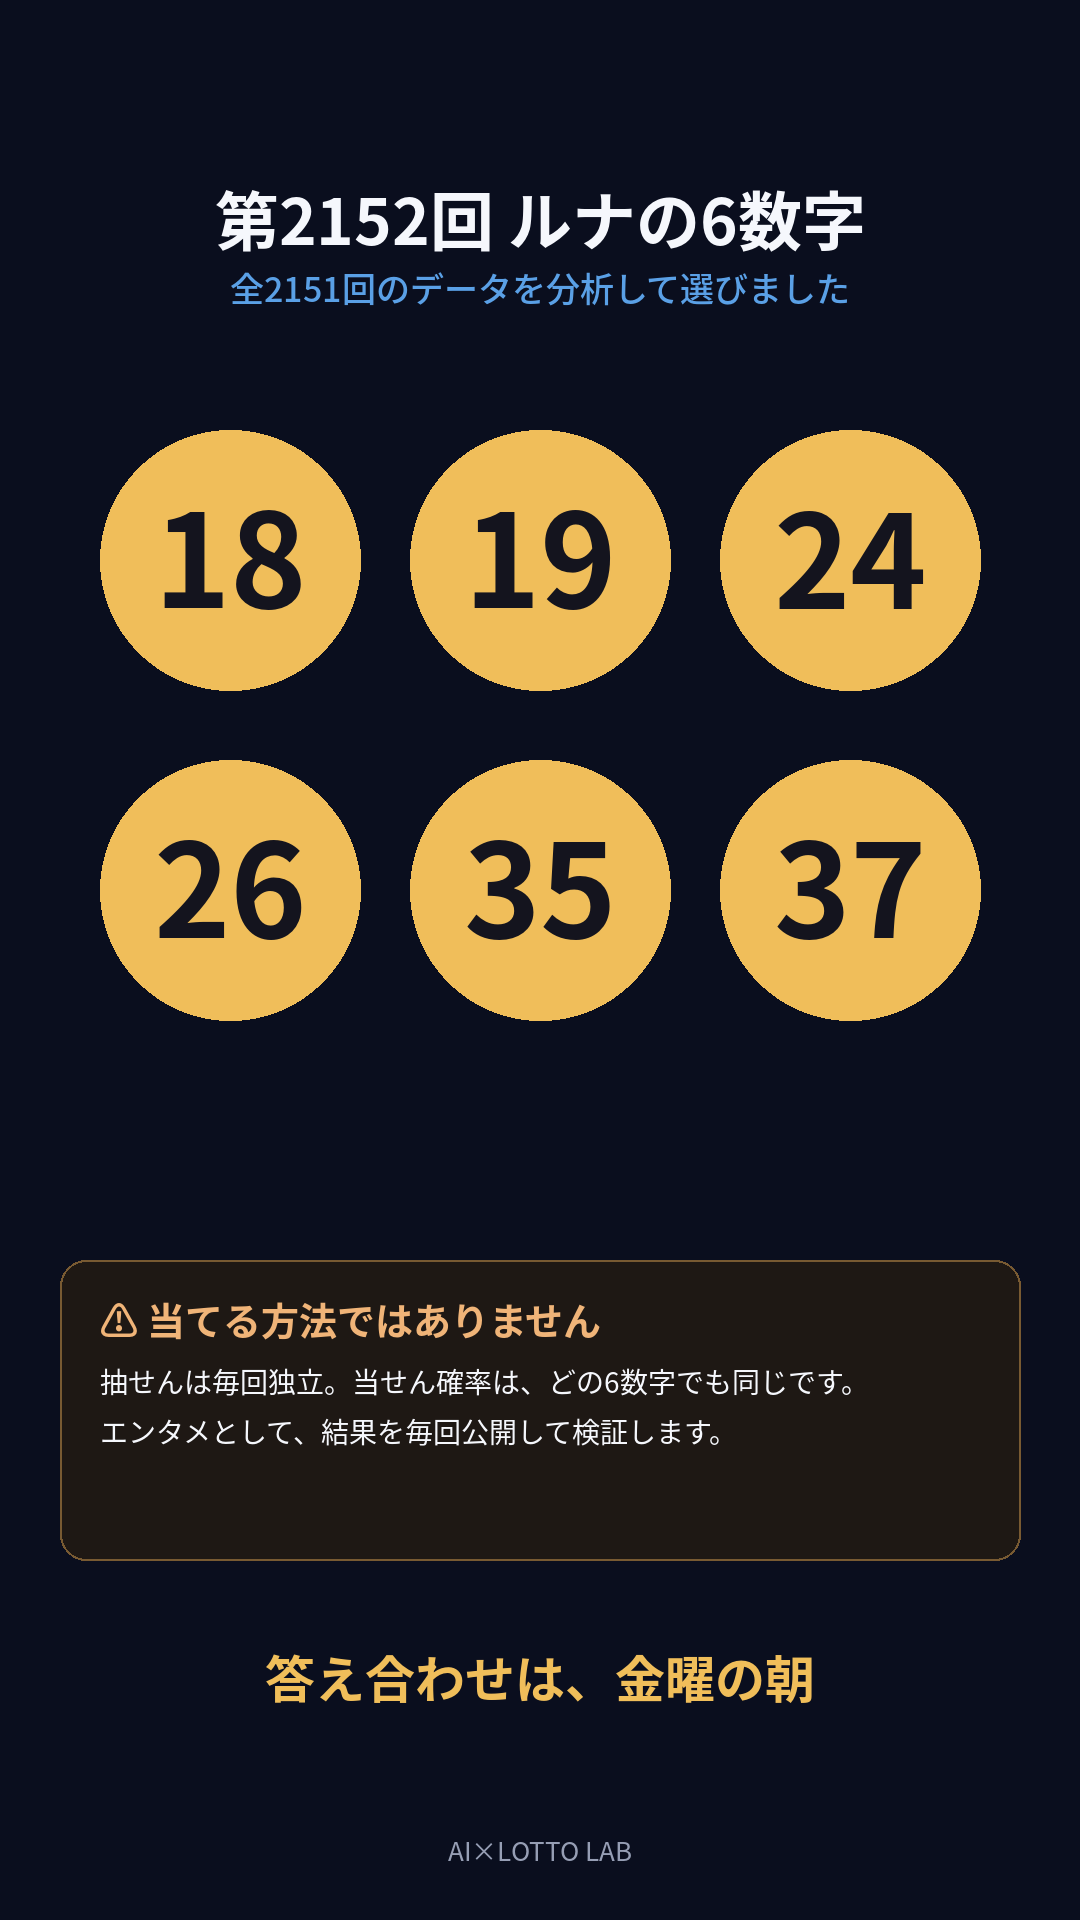
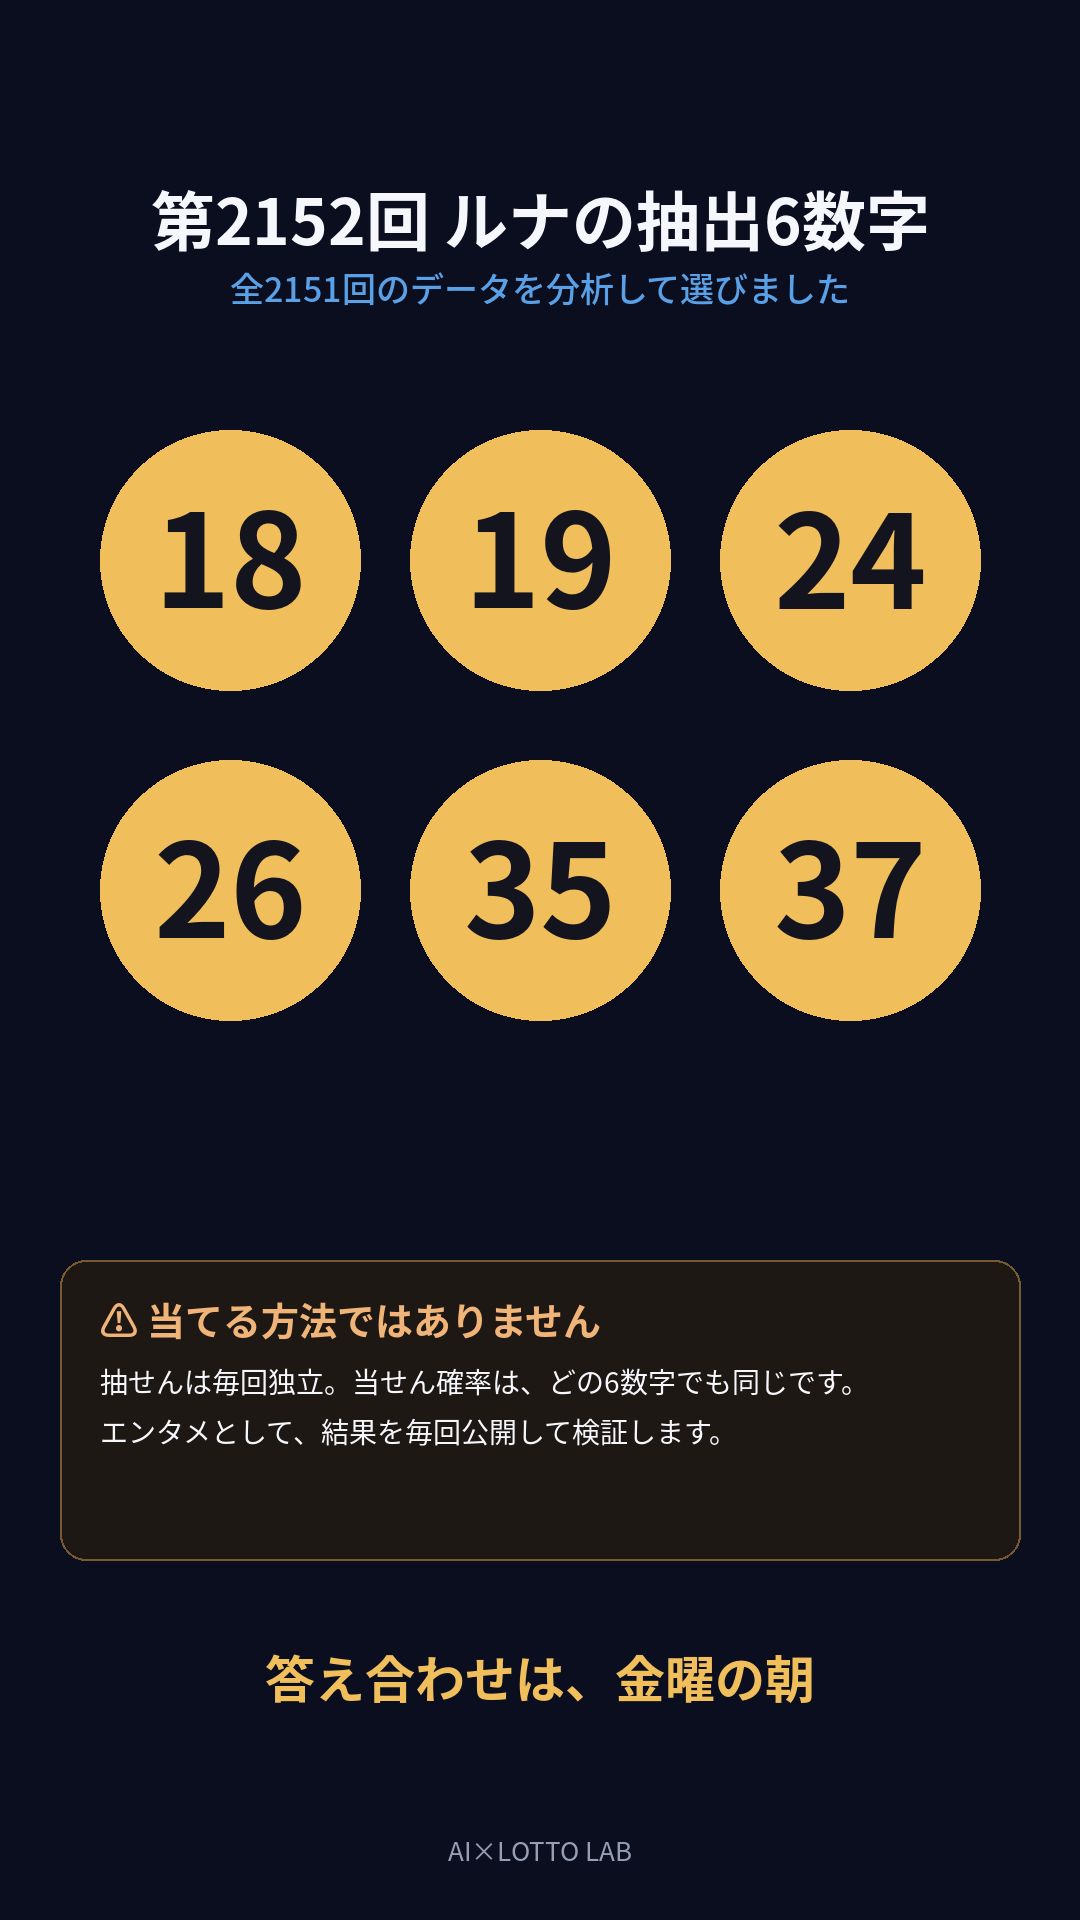
v2 video cards, script draft 2152, wording: 抽出

Changed region(s): [[0.1222, 0.0938, 0.8556, 0.1562]]

diff --git a/scripts/make_v2_cards.py b/scripts/make_v2_cards.py
@@ -1,0 +1,42 @@
+"""v2 動画用カード: 冒頭(2秒フック)、視点カード3枚、6数字の1個ずつ公開カード6枚。使い方: python3 scripts/make_v2_cards.py <次回の回号>"""
+import sys, json
+from PIL import Image, ImageDraw, ImageFont
+N = int(sys.argv[1]); p = json.load(open(f"data/picks/{N}.json")); v = json.load(open(f"data/picks_v2_{N}.json"))
+W, H = 1080, 1920; FD = "/usr/share/fonts/opentype/noto/NotoSansCJK-{}.ttc"; F = lambda w, s: ImageFont.truetype(FD.format(w), s)
+BG=(10,14,30); GOLD=(240,190,90); WHITE=(245,247,252); GR=(150,158,180); BLUE=(90,160,230); CB=(26,32,58); CBD=(60,70,110); DIM=(40,46,74)
+def new(): im=Image.new("RGB",(W,H),BG); return im, ImageDraw.Draw(im)
+def ct(d,y,t,fn,fill):
+    b=d.textbbox((0,0),t,font=fn); d.text((W/2-(b[2]-b[0])/2,y),t,font=fn,fill=fill)
+def foot(d): ct(d,1830,"AI×LOTTO LAB",F("Regular",26),GR)
+# 冒頭フック: 最初のフレームから数字が見える(音なしでも読める)
+rows=[l for l in __import__("openpyxl").load_workbook("data/loto6_all.xlsx",read_only=True).active.iter_rows(min_row=2,values_only=True) if l[0]]
+n=len(rows); hit=sum(1 for x in rows if x[9]>0); pct=round(hit/n*100)
+im,d=new(); ct(d,330,"ロト6",F("Bold",90),WHITE); ct(d,470,"%d%%"%pct,F("Bold",420),GOLD)
+ct(d,980,"の回で 1等が出てる",F("Bold",78),WHITE); ct(d,1110,"第1回〜第%d回(%s回中%s回)"%(n,format(n,","),format(hit,",")),F("Medium",38),BLUE); foot(d)
+im.save(f"cards/v2_open_{N}.png")
+# 視点カード
+def card(name,title,sub,items,note):
+    im,d=new(); ct(d,230,title,F("Bold",72),GOLD); ct(d,350,sub,F("Medium",42),WHITE)
+    y=520
+    for lab,val in items:
+        d.rounded_rectangle([70,y,W-70,y+210],radius=26,fill=CB,outline=CBD,width=3)
+        d.text((110,y+28),lab,font=F("Medium",36),fill=GR); d.text((110,y+95),val,font=F("Bold",70),fill=WHITE); y+=250
+    ct(d,y+60,note,F("Regular",30),GR); foot(d); im.save(f"cards/v2_{name}_{N}.png")
+sc=v["score"]
+card("view1","視点① よく出る数字","過去の全データから",[("全期間でよく出た数字","6 ・ 37 ・ 2 ・ 42"),("最近100回でよく出た数字","37 ・ 6 ・ 18 ・ 8")],"傾向です。当てる方法ではありません")
+card("view2","視点② 組み合わせの傾向","前の回の数字をもとに",[("一緒に出やすい数字","6 ・ 38 ・ 15 ・ 1"),("次の回に出やすい数字","37 ・ 38 ・ 10 ・ 20")],"傾向です。当てる方法ではありません")
+ps=sorted(v["pset"].items(),key=lambda x:-x[1])[:2]
+card("view3","視点③ 次の抽せん球","セット球の使われ方から",[("次に使われやすいセット","%s・%s"%(ps[0][0],ps[1][0])),("そのセットで出やすい数字","6 ・ 21 ・ 2 ・ 26")],"傾向です。当てる方法ではありません")
+# 6数字を1個ずつ
+nums=p["luna"]
+for k in range(1,7):
+    im,d=new(); ct(d,170,"第%d回 ルナの抽出6数字"%N,F("Bold",60),WHITE); ct(d,262,"%d個目"%k,F("Medium",40),BLUE)
+    for i,x in enumerate(nums):
+        r,c=divmod(i,3); cx=230+c*310; cy=560+r*330
+        on=i<k; fill=GOLD if on else DIM
+        d.ellipse([cx-130,cy-130,cx+130,cy+130],fill=fill)
+        if on:
+            t=str(x); b=d.textbbox((0,0),t,font=F("Bold",110)); d.text((cx-(b[2]-b[0])/2,cy-(b[3]-b[1])/2-b[1]),t,font=F("Bold",110),fill=(20,20,30))
+    ct(d,1330,"AIが分析した視点から抽出",F("Medium",38),GR)
+    ct(d,1410,"当てる方法ではありません",F("Regular",30),GR); foot(d); im.save(f"cards/v2_num{k}_{N}.png")
+print("ok")

diff --git a/scripts/make_hook_cards.py b/scripts/make_hook_cards.py
@@ -25,7 +25,7 @@ ct(d, 1830, "AI×LOTTO LAB", F("Regular", 26), GR)
 im.save(f"cards/hook_{N}.png")
 # 6数字
 im, d = new()
-ct(d, 170, "第%d回 ルナの6数字" % N, F("Bold", 64), WHITE)
+ct(d, 170, "第%d回 ルナの抽出6数字" % N, F("Bold", 64), WHITE)
 ct(d, 262, "全%d回のデータを分析して選びました" % p["draws"], F("Medium", 34), BLUE)
 for i, v in enumerate(p["luna"]):
     r, c = divmod(i, 3); cx = 230+c*310; cy = 560+r*330

diff --git a/docs/script_2152.md b/docs/script_2152.md
@@ -1,0 +1,30 @@
+# 第2152回 動画台本(v2・案)  ※生成・予約はしていない
+ねらい: 約65〜70秒。冒頭2秒に数字(71%)、音なしでも読める画面+字幕、3〜5秒ごとに切り替え。
+言葉: 「予想」は使わず「抽出」。確率が上がるとは言わない。購入をすすめない。
+
+| # | 種別 | 画像/アバター | ナレーション | 目安秒 |
+|---|---|---|---|---|
+| 1 | image | v2_open_2152.png | ロト6、7割の回で、1等が出てる。 | 2 |
+| 2 | avatar(白ジャケット) | - | AIロト研究員のルナだよ。でもね、自分が1等を当てる確率は、610万分の1。それなのに、なんで7割の回で出るんだろう? | 9 |
+| 3 | avatar | - | 毎回、全国でたくさんのくじが買われてるから、だれかの6数字がぴったり合う回が多いんだ。 | 6 |
+| 4 | avatar | - | ルナは、当てる方法を教える人じゃないよ。過去の全データを、いくつかの視点で分析して、数字を抽出して、結果を毎回公開して、あとから検証するの。 | 12 |
+| 5 | image | v2_view1_2152.png | 視点その1。よく出る数字。全期間でも最近でも、6と37がよく出てるよ。 | 5 |
+| 6 | image | v2_view2_2152.png | 視点その2。一緒に出やすい数字と、前の回の次に出やすい数字。 | 4 |
+| 7 | image | v2_view3_2152.png | 視点その3。次に使われやすい抽せん球は、FかIのセット。 | 4 |
+| 8 | avatar | - | この視点を合わせて、確率で選んだ、第2152回のルナの抽出6数字は、こちら。 | 5 |
+| 9-14 | image×6 | v2_num1〜6_2152.png | 1つ目、18。 / 2つ目、19。 / 3つ目、24。 / 4つ目、26。 / 5つ目、35。 / 6つ目、37。 | 各2 |
+| 15 | image | numbers_2152.png | もう一回言うね。18、19、24、26、35、37。保存しておくと、答え合わせが楽だよ。 | 6 |
+| 16 | avatar | - | 当たる保証はないよ。確率はどの6数字でも同じで、抽せんは毎回独立。見て楽しむエンタメとして、見てね。あなたの6数字も、コメントで教えて。 | 10 |
+| 17 | avatar | - | 答え合わせは金曜の朝に出すよ。フォローして待っててね。ところで、ロト6、7割の回で、1等が出てるって、知ってた? | 8 |
+
+最後の一文は冒頭につながる(繰り返し再生のため)。
+## 投稿文(案)
+【第2152回 ルナの抽出6数字】18 19 24 26 35 37
+ロト6、7割の回で1等が出てる。でも自分が当てる確率は610万分の1。
+AIが過去の全データを複数の視点で分析して抽出した6数字です。当たる保証はなく、当てる方法でもありません。確率はどの6数字でも同じ、抽せんは毎回独立です。結果は毎回公開して検証します。エンタメとしてご覧ください。
+#ロト6 #AI分析 #データ分析 #AIロト研究員ルナ
+最初のコメント: あなたの6数字もコメントで教えてね!答え合わせは金曜の朝に出すよ
+## 要確認
+- 「たくさんのくじが買われてる」は一般的な言い方にとどめた(販売口数は未確認)。
+- 方針の説明(4)は長いので、動画では詰める可能性あり。
+- TikTok公式の宝くじ関連の規定は未確認。
